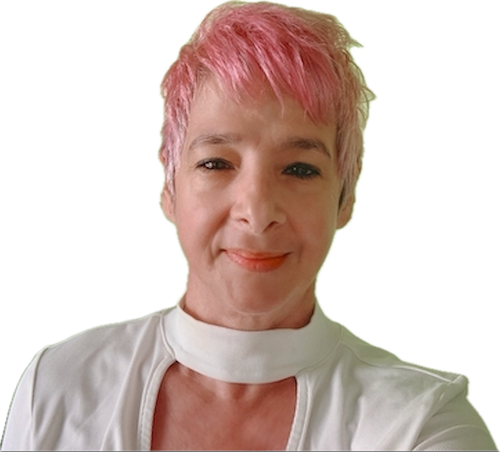
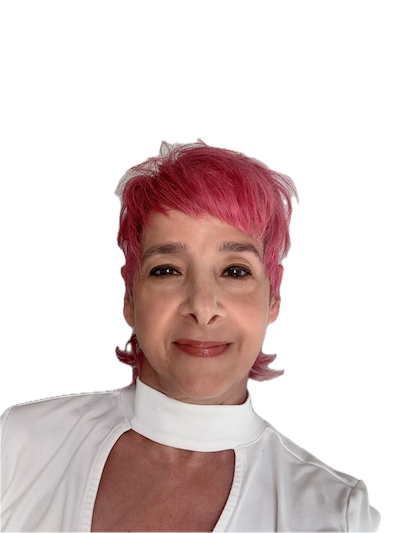
Cambiando la foto

diff --git a/src/app/contenido-proyectos/home-page/proyectos.js b/src/app/contenido-proyectos/home-page/proyectos.js
@@ -21,7 +21,7 @@ export const PROYECTOS = [
     id: "016",
     title: "E-commerce: Mi Tienda",
     description:
-      'Desarrollada por mí, inspirada y orientada por el profesor "Alejandro Castro" y todo lo aprendido en el bootcamp de Qualentum. Utilizando tecnologías como React, React Router y Redux. El objetivo principal de este proyecto ha sido repasar y poner en práctica todo lo aprendido.',
+      'Desarrollada por mí, inspirada y orientada por el profesor "Alejandro Castro" y todo lo adquirido en el bootcamp de Qualentum. Utilizando tecnologías como React, React Router y Redux. El objetivo principal de este proyecto ha sido repasar y poner en práctica todo lo aprendido.',
     url: "/proyectos/mi-tienda",
     linkTexto: "Ver proyecto",
     imageURL: miTienda,

diff --git a/src/app/componentes/Hero/Hero.module.css b/src/app/componentes/Hero/Hero.module.css
@@ -30,7 +30,7 @@
 }
 
 .img {
-  transform: translateY(25px);
+  /* transform: translateY(25px); */
 }
 
 /* Sin imagen */
